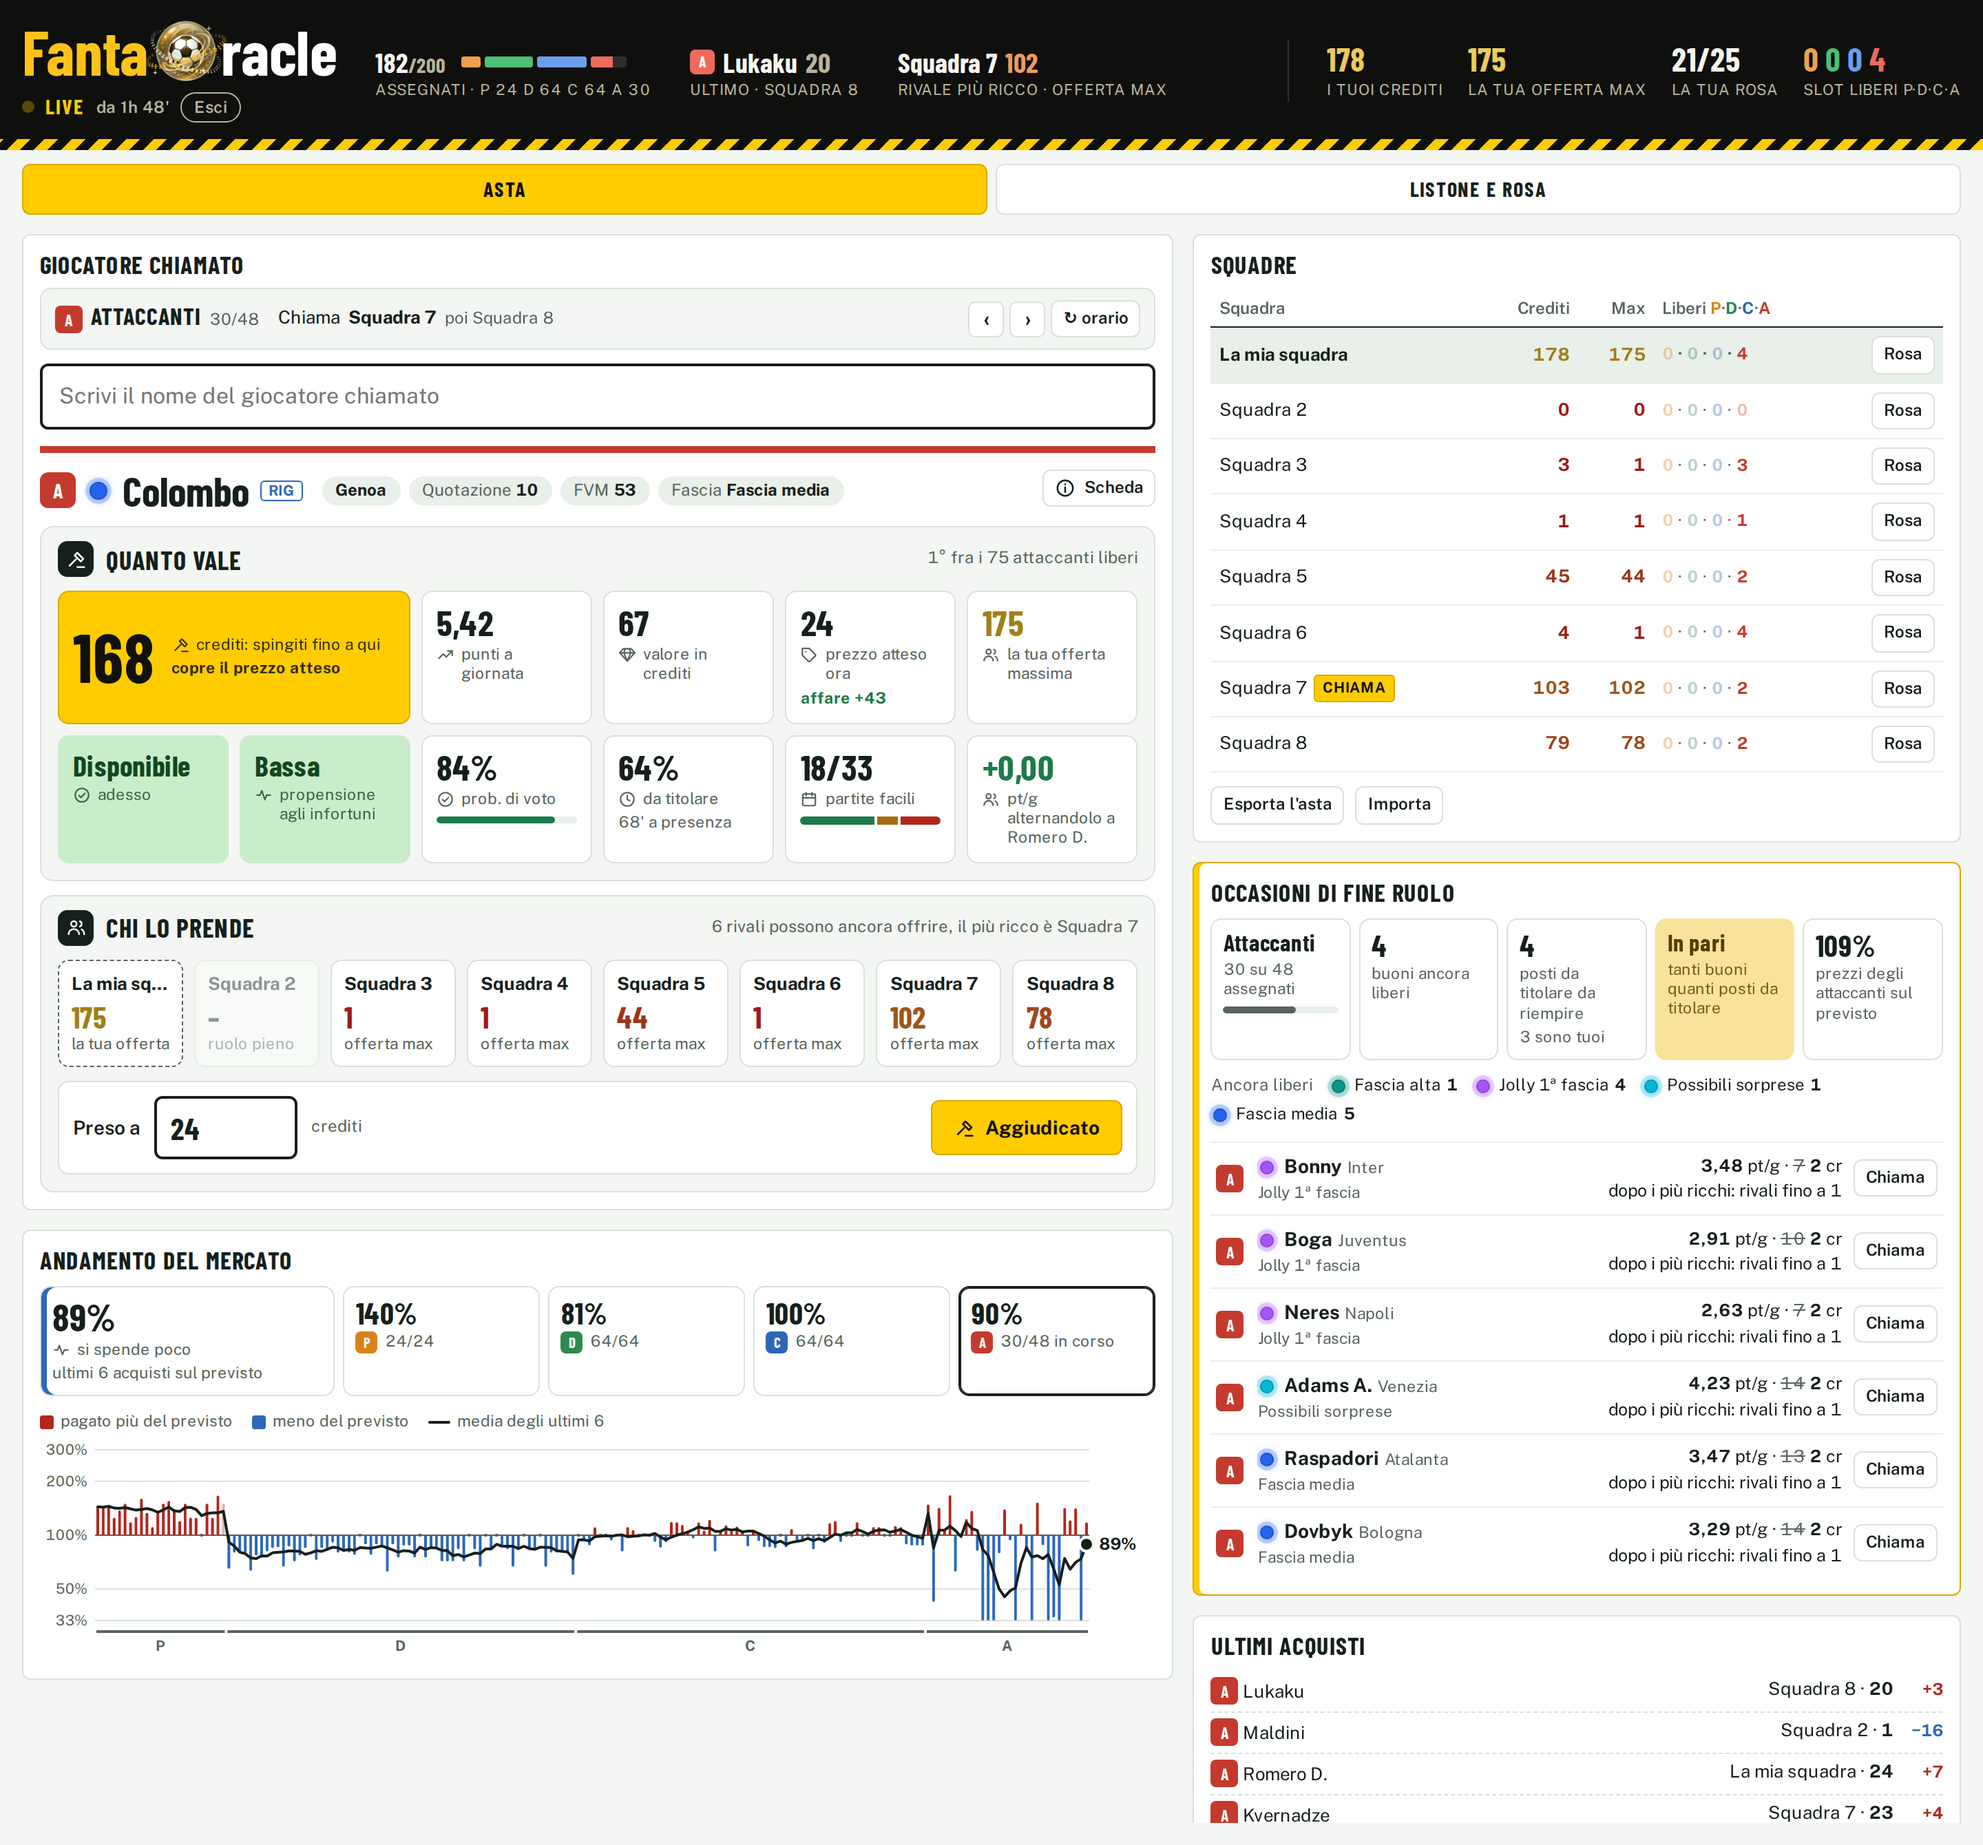
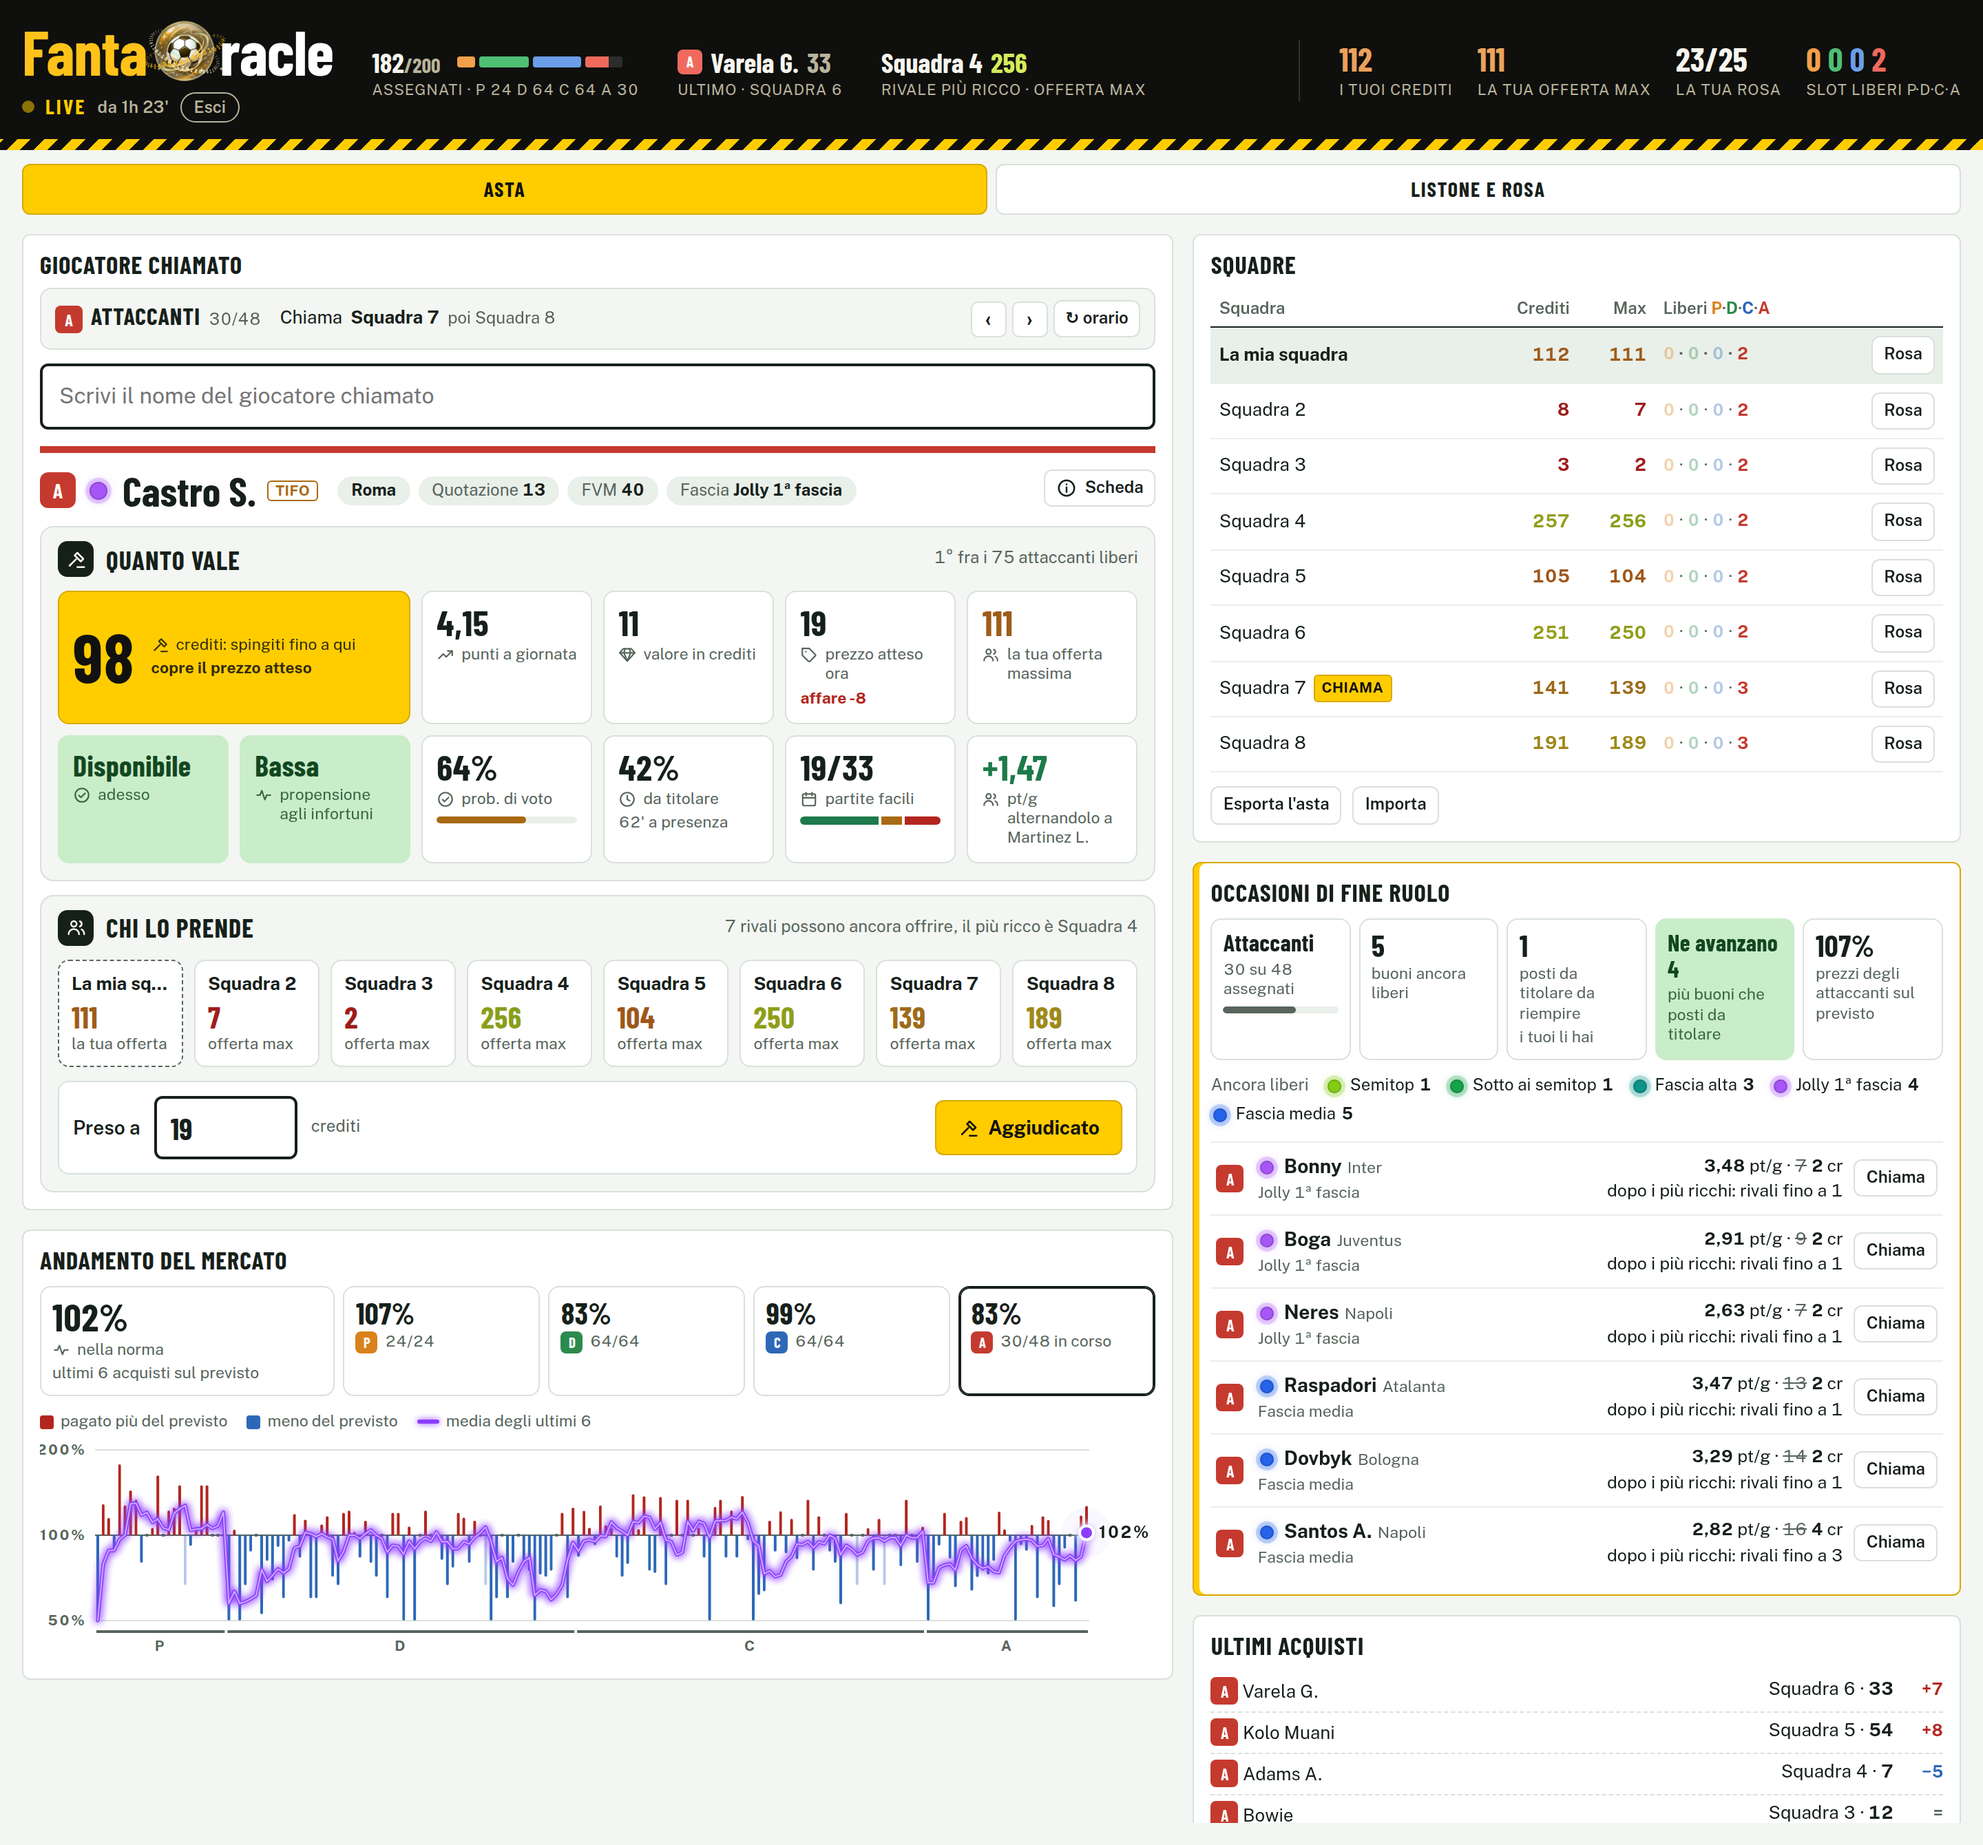
Mercato: media viola luminosa con pallino che pulsa in asta; pallini della fascia non piu' tagliati
La linea della media era nera e si perdeva fra le colonne: ora e' viola con un
bagliore (filtro SVG sull'area del grafico, cosi' non sparisce se la linea e'
piatta) e un filo chiaro al centro; il pallino in fondo ha un alone che pulsa
quando l'asta e' attiva, fermo con prefers-reduced-motion.

Le righe che tagliano il nome con i puntini (occasioni, risultati della ricerca,
slot della rosa) tagliavano anche l'alone del pallino della fascia: gli si da'
spazio con padding e margine negativo, senza cambiare l'impaginazione.

Claude-Session: https://claude.ai/code/session_01FBeLdg3Zut88sEP1f7QNub

diff --git a/web/tool.css b/web/tool.css
@@ -20,6 +20,7 @@
   --go: #1d7a4a; --warn: #a86a12; --bad: #b3261e;
   --r-p: #d9821b; --r-d: #2b8a4c; --r-c: #2d68b8; --r-a: #c53a2e;  /* colori di ruolo */
   --caldo: #b3261e; --freddo: #2d68b8;   /* grafico del mercato: sopra e sotto il prezzo previsto */
+  --merc: #8b3dff;                        /* e la sua media, viola acceso che brilla su rosso e blu */
   --font-display: "Barlow Condensed", "Arial Narrow", "Roboto Condensed", sans-serif;
   --font-body: "Public Sans", "Segoe UI", system-ui, -apple-system, sans-serif;
   --radius: 6px;
@@ -32,7 +33,7 @@
     --grass-1: #1d5129; --grass-2: #1a4924; --chalk: #e8efe9;
     --go: #4cc184; --warn: #e0a33c; --bad: #f07167;
     --r-p: #f0a04a; --r-d: #4fbf73; --r-c: #6b9ee8; --r-a: #ef6a5c;
-    --caldo: #e8604f; --freddo: #5b93e6;
+    --caldo: #e8604f; --freddo: #5b93e6; --merc: #b57bff;
     color-scheme: dark;
   }
 }
@@ -43,7 +44,7 @@
   --grass-1: #1d5129; --grass-2: #1a4924; --chalk: #e8efe9;
   --go: #4cc184; --warn: #e0a33c; --bad: #f07167;
   --r-p: #f0a04a; --r-d: #4fbf73; --r-c: #6b9ee8; --r-a: #ef6a5c;
-  --caldo: #e8604f; --freddo: #5b93e6;
+  --caldo: #e8604f; --freddo: #5b93e6; --merc: #b57bff;
   color-scheme: dark;
 }
 
@@ -210,6 +211,9 @@ td.f + td.nm { padding-left: 8px; }
 td.f .fd { margin: 0 2px; }
 .fd.est { background: transparent; box-shadow: inset 0 0 0 2px var(--c), 0 0 0 3px color-mix(in srgb, var(--c) 20%, transparent), 0 0 7px color-mix(in srgb, var(--c) 45%, transparent); }
 .fd.no { background: var(--ink-2); opacity: 0.28; box-shadow: none; }
+/* Le righe che tagliano il nome con i puntini (overflow: hidden) taglierebbero anche l'alone: gli si
+   da' spazio dentro e lo si restituisce col margine negativo, cosi' l'impaginazione non cambia. */
+.slot .who, .occ-n, .ris-n { padding: 7px 0 7px 8px; margin: -7px 0 -7px -8px; }
 .fd:focus-visible { outline: 2px solid var(--brand); outline-offset: 3px; }
 .slot .who { padding-left: 2px; }
 #legenda-fasce { position: fixed; z-index: 200; width: 232px; padding: 10px 12px; background: var(--sheet); color: var(--ink); border: 1px solid var(--rule);
@@ -580,6 +584,9 @@ button.box, .comp { font: inherit; cursor: pointer; }
   }
   .live .dot { animation: batte 1.2s ease-in-out infinite; }
   @keyframes batte { 50% { opacity: 0.25; } }
+  /* in asta il pallino in fondo alla media pulsa: l'alone si allarga e svanisce */
+  .merc.live .alone { animation: pulsa 1.6s ease-out infinite; }
+  @keyframes pulsa { from { transform: scale(0.6); opacity: 0.55; } to { transform: scale(2.4); opacity: 0; } }
   :root[data-asta] .top.entra::after { content: ""; position: absolute; left: 0; bottom: 0; height: 8px; width: 100%; background: var(--stage-fg); transform-origin: left; animation: accende 0.9s ease-out forwards; }
   @keyframes accende { from { transform: scaleX(0); opacity: 1; } to { transform: scaleX(1); opacity: 0; } }
 }
@@ -632,7 +639,7 @@ button.box, .comp { font: inherit; cursor: pointer; }
 .fasce-libere > span { display: inline-flex; align-items: center; white-space: nowrap; }
 .fasce-libere .fd { margin: 0 6px 0 2px; }
 .fasce-libere b { margin-left: 4px; }
-.occ .who { display: grid; gap: 1px; white-space: normal; }
+.occ .who { display: grid; gap: 1px; white-space: normal; overflow: visible; }
 .occ-n { min-width: 0; overflow: hidden; text-overflow: ellipsis; white-space: nowrap; }
 .occ-n .fd { margin: 0 7px 0 2px; }
 .occ-f { font-size: 11.5px; color: var(--ink-2); }
@@ -652,7 +659,7 @@ button.box, .comp { font: inherit; cursor: pointer; }
 .merc-leg span { display: inline-flex; align-items: center; gap: 5px; white-space: nowrap; }
 .merc-leg .k { width: 10px; height: 10px; border-radius: 2px; }
 .merc-leg .k.caro { background: var(--caldo); } .merc-leg .k.sconto { background: var(--freddo); }
-.merc-leg .k.linea { width: 16px; height: 2px; border-radius: 1px; background: var(--ink); }
+.merc-leg .k.linea { width: 16px; height: 3px; border-radius: 2px; background: var(--merc); box-shadow: 0 0 5px var(--merc); }
 .merc-graf { position: relative; }
 svg.merc { display: block; max-width: 100%; touch-action: pan-y; }
 .merc .griglia { stroke: var(--rule); stroke-width: 1; fill: none; }
@@ -660,8 +667,11 @@ svg.merc { display: block; max-width: 100%; touch-action: pan-y; }
 .merc .caro { fill: var(--caldo); } .merc .sconto { fill: var(--freddo); }
 .merc .piccolo { opacity: 0.35; }
 .merc .pari { fill: var(--ink-2); }
-.merc .media { stroke: var(--ink); stroke-width: 2; fill: none; stroke-linejoin: round; stroke-linecap: round; }
-.merc .punto { fill: var(--ink); stroke: var(--sheet); stroke-width: 2; }
+/* la media: viola con il bagliore (filtro #merc-glow) e un filo chiaro al centro che la fa brillare */
+.merc .media { stroke: var(--merc); stroke-width: 2.6; fill: none; stroke-linejoin: round; stroke-linecap: round; }
+.merc .media-luce { stroke: #ffffff; stroke-opacity: 0.55; stroke-width: 1; fill: none; stroke-linejoin: round; stroke-linecap: round; }
+.merc .punto { fill: var(--merc); stroke: var(--sheet); stroke-width: 2; }
+.merc .alone { fill: var(--merc); opacity: 0.22; transform-box: fill-box; transform-origin: center; }
 .merc .fase { stroke: var(--ink-2); stroke-width: 2; fill: none; }
 .merc .mirino { stroke: var(--ink); stroke-width: 1; fill: none; }
 .merc text { font-family: var(--font-body); fill: var(--ink-2); }

diff --git a/web/tool.js b/web/tool.js
@@ -1501,12 +1501,15 @@ function renderMercato() {
   }
   const fine = { x: cx(N - 1), y: y(acq[N - 1].m) };
   h += `<div class="merc-leg"><span><i class="k caro"></i>pagato più del previsto</span><span><i class="k sconto"></i>meno del previsto</span><span><i class="k linea"></i>media degli ultimi ${FINESTRA}</span></div>
-    <div class="merc-graf"><svg class="merc" width="${W}" height="${H}" viewBox="0 0 ${W} ${H}" role="img" tabindex="0"
+    <div class="merc-graf"><svg class="merc${inAsta() ? " live" : ""}" width="${W}" height="${H}" viewBox="0 0 ${W} ${H}" role="img" tabindex="0"
         aria-label="Andamento del mercato: ${N} acquisti, gli ultimi al ${pct(ultimo)} del prezzo previsto. Frecce sinistra e destra per scorrere gli acquisti.">
       ${tacche.map((t) => `<path class="${t === 1 ? "base" : "griglia"}" d="M${sx} ${y(t).toFixed(1)}H${W - dx}"/><text class="t-asse" x="${sx - 6}" y="${(y(t) + 3.5).toFixed(1)}">${Math.round(t * 100)}%</text>`).join("")}
       ${colonne}${fasi}
-      <path class="media" d="${linea}"/>
-      <circle class="punto" cx="${fine.x.toFixed(1)}" cy="${fine.y.toFixed(1)}" r="5"/>
+      <defs><filter id="merc-glow" filterUnits="userSpaceOnUse" x="0" y="0" width="${W}" height="${H}"><feGaussianBlur stdDeviation="3" result="b"/>
+        <feMerge><feMergeNode in="b"/><feMergeNode in="b"/><feMergeNode in="SourceGraphic"/></feMerge></filter></defs>
+      <path class="media" d="${linea}" filter="url(#merc-glow)"/><path class="media-luce" d="${linea}"/>
+      <circle class="alone" cx="${fine.x.toFixed(1)}" cy="${fine.y.toFixed(1)}" r="8"/>
+      <circle class="punto" cx="${fine.x.toFixed(1)}" cy="${fine.y.toFixed(1)}" r="5" filter="url(#merc-glow)"/>
       <text class="t-fine" x="${(fine.x + 9).toFixed(1)}" y="${(fine.y + 4).toFixed(1)}">${pct(ultimo)}</text>
       <path class="mirino" d="M0 ${su}V${su + altoP}" hidden/>
     </svg><div class="merc-tip" hidden></div></div>`;

diff --git a/web/index.html b/web/index.html
@@ -10,7 +10,7 @@
 <link rel="preconnect" href="https://fonts.gstatic.com" crossorigin>
 <link rel="stylesheet" href="https://fonts.googleapis.com/css2?family=Barlow+Condensed:wght@500;600;700&family=Public+Sans:wght@400;500;600;700&display=swap">
 <link rel="icon" type="image/png" href="logo.png">
-<link rel="stylesheet" href="tool.css?v=2f5cf90405">
+<link rel="stylesheet" href="tool.css?v=ae641fab16">
 <div class="app">
   <header class="top">
     <div class="marca">
@@ -115,7 +115,7 @@
 
 <div class="overlay" id="overlay" hidden></div>
 
-<script src="tool.js?v=4812edb921"></script>
+<script src="tool.js?v=40494ebdef"></script>
 
 </body>
 </html>

diff --git a/README.md b/README.md
@@ -97,7 +97,7 @@ Premi il bottone col pallone in testata: il pallone rotola, ti viene incontro e 
 - **Giocatore chiamato**: scrivi il nome, scorri i risultati con le frecce e premi Invio. Hai la sua scheda in versione da asta, a riquadri come quella del listone. In giallo **fin dove spingerti**: il prezzo oltre il quale la rosa migliore senza di lui diventa più forte, e se basta a coprire il prezzo atteso (in rosso *Lascialo*, quando non conviene a nessun prezzo). Accanto punti, valore, prezzo atteso e la tua offerta massima; sotto come sta, quanto gioca e, per portieri e attaccanti, quante partite facili ha e quanto rende alternato a chi hai già in rosa.
 - **Chi lo prende**: un riquadro per squadra con la sua offerta massima, spento se ha il ruolo pieno. Tocchi chi l'ha preso, scrivi il prezzo e premi Aggiudicato (o Invio). Il tool aggiorna crediti e slot di tutti, ricalcola i suggerimenti e adegua i prezzi al mercato reale della serata.
 - **Chi chiama**: sopra la ricerca vedi il ruolo in corso e a chi tocca chiamare, e poi a chi. Dopo ogni acquisto il giro avanza da solo, saltando chi ha già riempito il ruolo; con le frecce lo correggi, con un tocco inverti il verso.
-- **Andamento del mercato**, sotto il giocatore chiamato per tutta la larghezza: un grafico con una colonna per acquisto, rossa sopra la riga se è stato pagato più del previsto, blu sotto se meno, e la media degli ultimi sei. In un colpo d'occhio vedi quando il tavolo sta spendendo tanto e quando poco, ruolo per ruolo.
+- **Andamento del mercato**, sotto il giocatore chiamato per tutta la larghezza: un grafico con una colonna per acquisto, rossa sopra la riga se è stato pagato più del previsto, blu sotto se meno, e la media degli ultimi sei in viola acceso, con il pallino in fondo che pulsa mentre l'asta è live. In un colpo d'occhio vedi quando il tavolo sta spendendo tanto e quando poco, ruolo per ruolo.
 - **Prezzi che seguono il tavolo**: se nel ruolo in corso si paga più del previsto, i prezzi attesi di chi resta in quel ruolo salgono; e siccome quei crediti poi mancano, scendono quelli dei ruoli dopo. All'ultimo ruolo si spende quello che resta.
 - **Squadre**, in alto a destra: crediti, offerta massima, slot liberi e **budget di ruolo** di ognuno: quanto può mettere su un giocatore del ruolo in corso senza intaccare i crediti che gli servono per i ruoli dopo.
 - **Occasioni di fine ruolo**: per il ruolo in corso, quanti giocatori buoni restano liberi (in *Fascia alta* o più su per SOS Fanta, oppure da titolare per i nostri punti), quanti posti da titolare ci sono ancora da riempire e quanti liberi restano fascia per fascia. Se i buoni avanzano conviene aspettare, se mancano no. Sotto, **dalla fascia più alta**, i giocatori che puoi portare via a poco, con il prezzo realistico e il perché. Un giocatore lo vuole chi cerca ancora un titolare e chi, pur avendo i suoi, ci guadagnerebbe una fascia: è un'occasione quando loro hanno finito il budget, o quando non lo vuole più nessuno da titolare. Nell'ultimo ruolo, dove ognuno spende quello che gli resta, il tool conta gli slot dei rivali che hanno ancora crediti e ti dice chi resta a poco dopo che hanno comprato.

diff --git a/specifiche.md b/specifiche.md
@@ -171,8 +171,9 @@ dettaglio:
   momento (la media degli ultimi sei acquisti sul previsto: sopra il 110% si
   spende tanto, sotto il 90% poco) e uno per ruolo con il suo termometro. Sotto, il
   grafico: una colonna per acquisto dalla riga del 100% (rossa sopra, pagato più
-  del previsto; blu sotto), la linea della media mobile pesata sui crediti e, sotto
-  l'asse, le fasi per ruolo. Il previsto è il prezzo atteso prima dell'asta. La
+  del previsto; blu sotto), la linea della media mobile pesata sui crediti (viola, con un
+  bagliore che la stacca da rosso e blu, e un pallino in fondo che pulsa durante
+  l'asta) e, sotto l'asse, le fasi per ruolo. Il previsto è il prezzo atteso prima dell'asta. La
   scala è logaritmica (metà e doppio alla stessa distanza dalla riga); rosso e blu
   restano distinguibili anche per chi non distingue rosso e verde. Passando il
   mouse, toccando o con le frecce si legge ogni acquisto.
